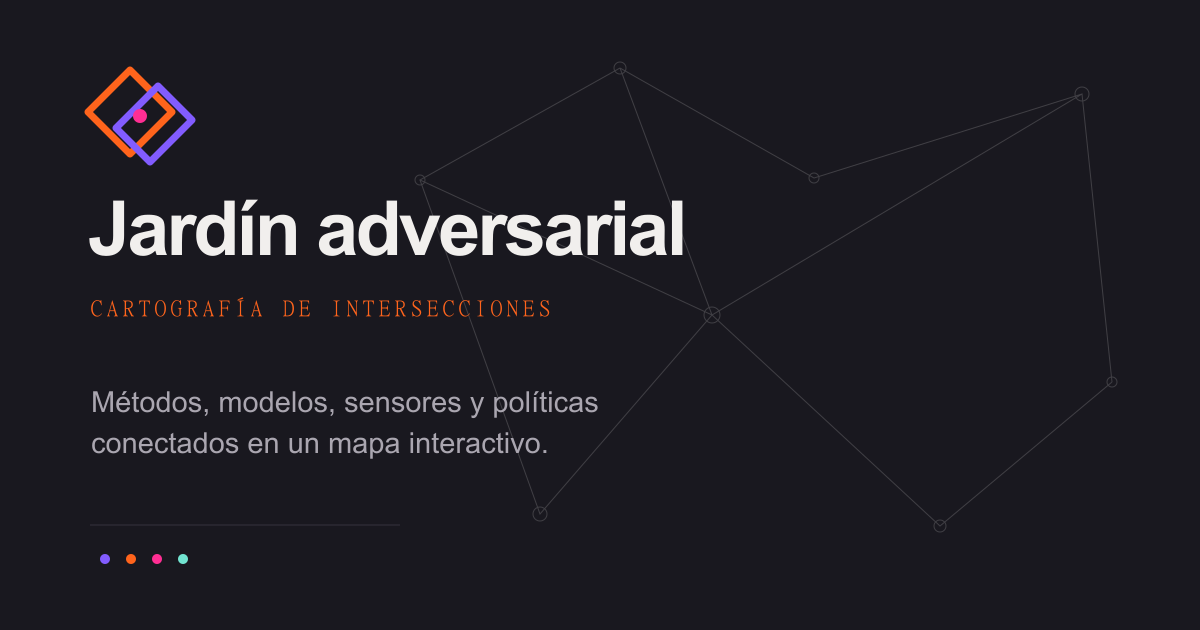
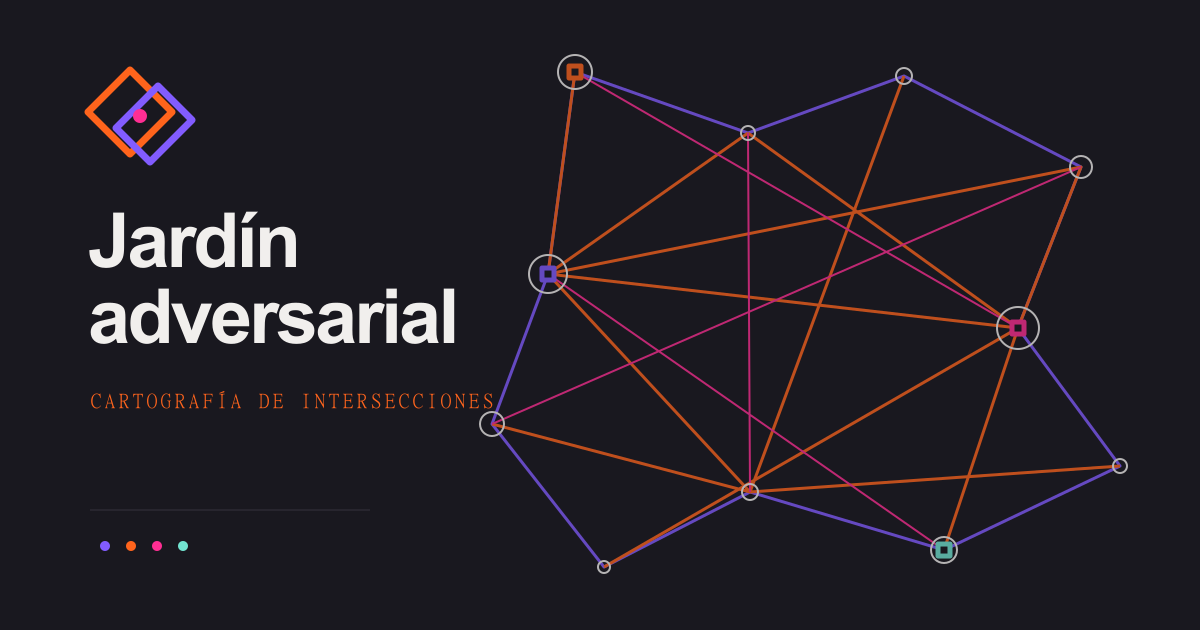
Refine social sharing preview

diff --git a/index.html b/index.html
@@ -12,8 +12,8 @@
   <meta property="og:locale" content="es_MX" />
   <meta property="og:type" content="website" />
   <meta property="og:site_name" content="Jardín adversarial" />
-  <meta property="og:title" content="Jardín adversarial — cartografía de intersecciones" />
-  <meta property="og:description" content="Métodos, modelos, sensores y políticas conectados en un mapa interactivo." />
+  <meta property="og:title" content="Jardín adversarial" />
+  <meta property="og:description" content="Métodos adversariales, modelos, sensores y políticas en una cartografía relacional." />
   <meta property="og:url" content="https://netpantla.github.io/adv-garden/" />
   <meta property="og:image" content="https://netpantla.github.io/adv-garden/social-preview.png" />
   <meta property="og:image:secure_url" content="https://netpantla.github.io/adv-garden/social-preview.png" />
@@ -22,8 +22,8 @@
   <meta property="og:image:height" content="630" />
   <meta property="og:image:alt" content="Jardín adversarial: cartografía de métodos, modelos, sensores y políticas." />
   <meta name="twitter:card" content="summary_large_image" />
-  <meta name="twitter:title" content="Jardín adversarial — cartografía de intersecciones" />
-  <meta name="twitter:description" content="Métodos, modelos, sensores y políticas conectados en un mapa interactivo." />
+  <meta name="twitter:title" content="Jardín adversarial" />
+  <meta name="twitter:description" content="Métodos adversariales, modelos, sensores y políticas en una cartografía relacional." />
   <meta name="twitter:image" content="https://netpantla.github.io/adv-garden/social-preview.png" />
   <title>Jardín adversarial — mapa de relaciones</title>
   <link rel="preconnect" href="https://fonts.googleapis.com">
